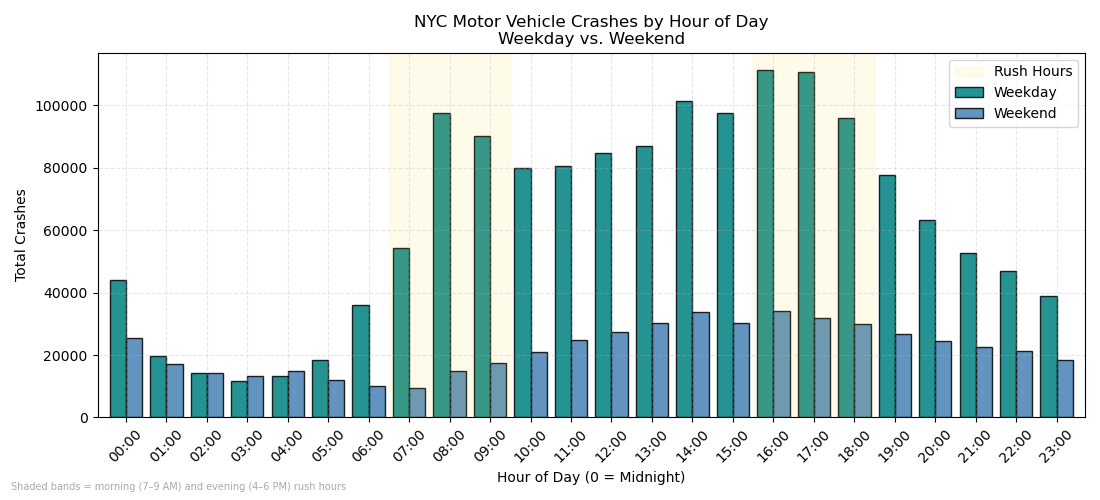
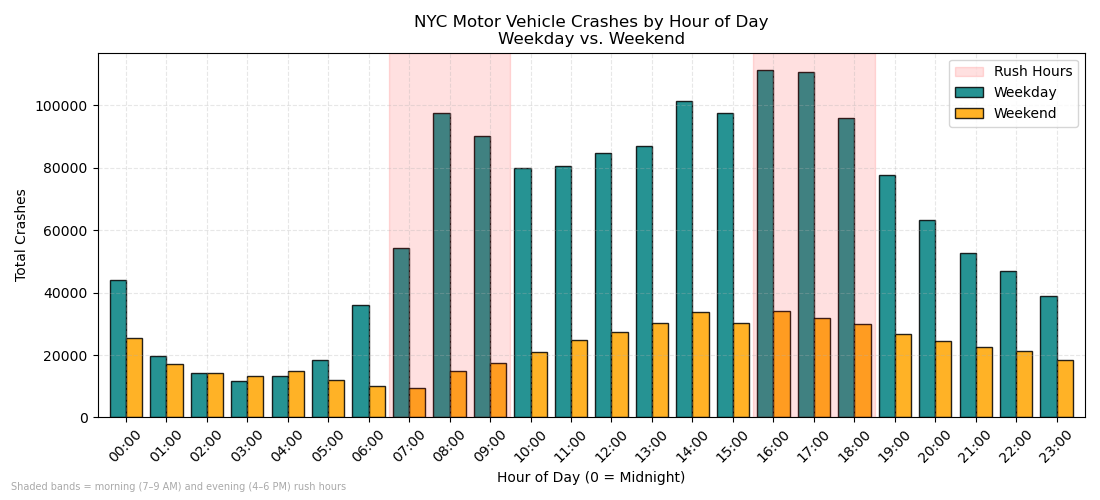
Misc. Improvements

Changed region(s): [[0.0927, 0.09, 0.9891, 0.84], [0.8655, 0.12, 0.8964, 0.18], [0.8655, 0.21, 0.8964, 0.24]]

diff --git a/main.py b/main.py
@@ -69,6 +69,7 @@ df_clean = df.copy()
 
 # Standardize column names (strip spaces, uppercase, underscores)
 df_clean.columns = df_clean.columns.str.strip().str.upper().str.replace(r'\s+', '_', regex=True)
+print("Column names standardized.\n")
 
 # Drop fully duplicate rows
 before = len(df_clean)
@@ -92,23 +93,25 @@ df_clean['YEAR']        = df_clean['CRASH_DATE'].dt.year
 unparseable = df_clean['CRASH_DATE'].isna().sum()
 print(f"Unparseable dates                   : {unparseable:,}")
 
-# Fix ZIP CODE — should always be a string, never a number
+# Fix ZIP CODE to be a string, never a number
 df_clean['ZIP_CODE'] = df_clean['ZIP_CODE'].astype(str).str.zfill(5).str.strip()
 df_clean['ZIP_CODE'] = df_clean['ZIP_CODE'].replace({'nan': np.nan, '00000': np.nan})
+print(f"ZIP_CODE cleaned and standardized.\n")
 
-# Standardize BOROUGH — title case, unknown → NaN
+# Standardize BOROUGH title case, unknown → NaN
 df_clean['BOROUGH'] = df_clean['BOROUGH'].str.strip().str.title()
 valid_boroughs = ['Manhattan', 'Brooklyn', 'Queens', 'Bronx', 'Staten Island']
 df_clean.loc[~df_clean['BOROUGH'].isin(valid_boroughs), 'BOROUGH'] = np.nan
+print(f"BOROUGH standardized. Invalid entries set to NaN.\n")
 
-# Standardize contributing factors — blank/unspecified → NaN
+# Standardize contributing factors: blank/unspecified → NaN
 unspecified = ['Unspecified', '1', '', 'nan']
 for col in ['CONTRIBUTING_FACTOR_VEHICLE_1', 'CONTRIBUTING_FACTOR_VEHICLE_2']:
     if col in df_clean.columns:
         df_clean[col] = df_clean[col].str.strip().str.title()
         df_clean[col] = df_clean[col].replace(unspecified, np.nan)
 
-# Standardize vehicle type codes — consolidate common variants
+# Standardize vehicle type codes: consolidate common variants
 vehicle_map = {
     'Sedan'      : ['Sedan', '4 Dr Sedan', '2 Dr Sedan', 'Passenger Vehicle'],
     'SUV'        : ['Station Wagon/Sport Utility Vehicle', 'Suv'],
@@ -181,8 +184,8 @@ plt.bar(hours + bar_width / 2, weekend.reindex(hours, fill_value=0),
         width=bar_width, label='Weekend', color='orange', edgecolor='black', linewidth=1, alpha=0.85)
 
 # Shade rush hour bands
-plt.axvspan(7 - 0.5, 9 + 0.5, alpha=0.08, color='red', label='Rush Hours')
-plt.axvspan(16 - 0.5, 18 + 0.5, alpha=0.08, color='red')
+plt.axvspan(7 - 0.5, 9 + 0.5, alpha=0.12, color='red', label='Rush Hours')
+plt.axvspan(16 - 0.5, 18 + 0.5, alpha=0.12, color='red')
 
 plt.title("NYC Motor Vehicle Crashes by Hour of Day\nWeekday vs. Weekend")
 plt.xlabel("Hour of Day (0 = Midnight)")
